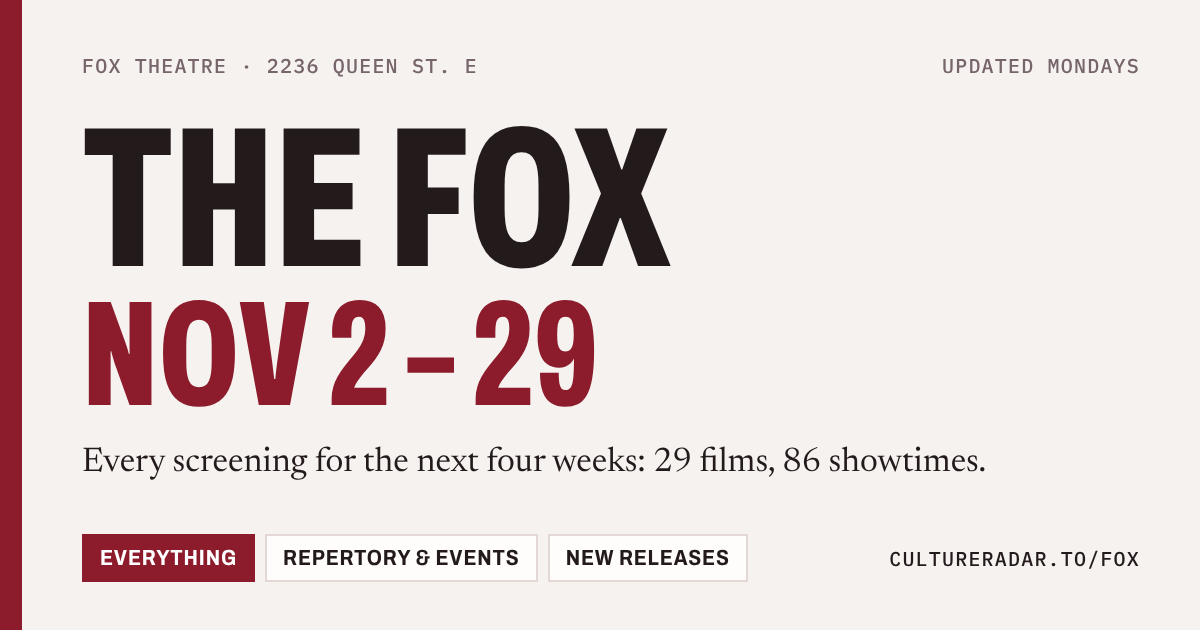
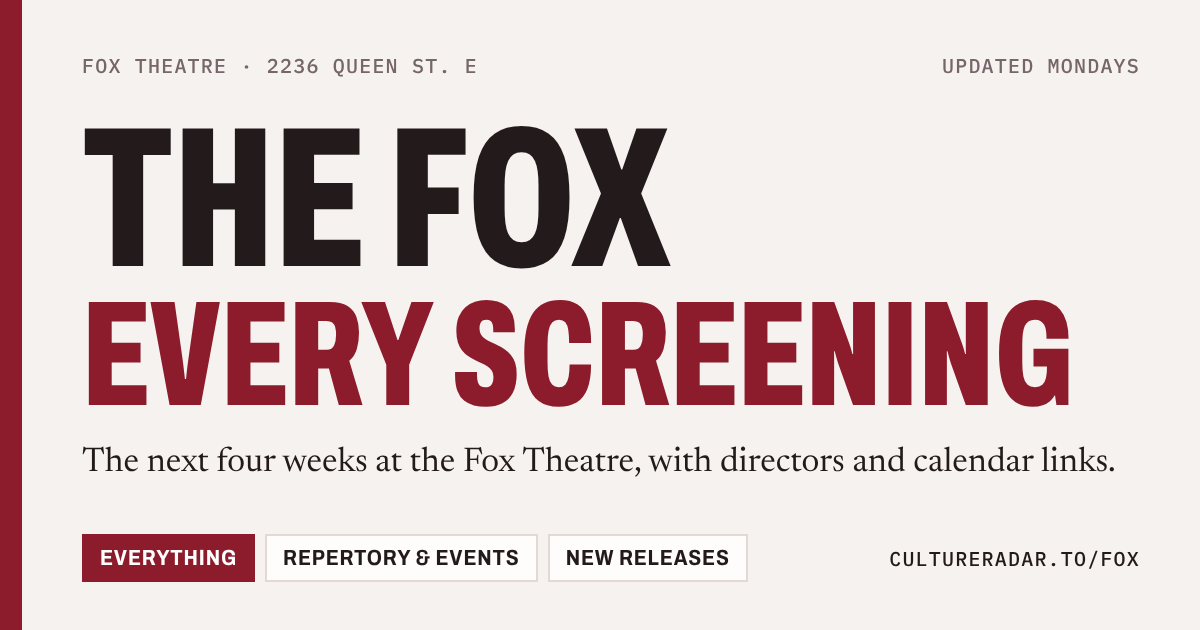
Make both link-preview images evergreen (no month, dates, or counts)
Claude-Session: https://claude.ai/code/session_01BpZ8BKHx2PbVjnSBC2KRY1

Changed region(s): [[0.0925, 0.4524, 0.8942, 0.6635], [0.0617, 0.6937, 0.925, 0.754]]

diff --git a/tools/social/make_kit.py b/tools/social/make_kit.py
@@ -6,7 +6,7 @@ Reads the picks and listings from index.html (the Radar) and writes:
   OUTDIR/feed-00-cover.png … feed-NN-*.png   (1080×1350 carousel: cover, one slide per pick, closing slide)
   OUTDIR/story-this-week.png                  (1080×1920, events in the 7 days from --week-start)
   OUTDIR/caption.txt                          (carousel caption)
-  --og PATH                                   (1200×630 link-preview image; the site uses assets/social/og.png)
+  --og PATH                                   (1200×630 evergreen link-preview image; the site uses assets/social/og.png)
 Needs Playwright with a Chromium/Chrome binary.
 """
 import os, re, sys, json, html, asyncio, datetime as dt
@@ -142,17 +142,17 @@ def story(rows, start):
 <div class='mono' style='margin-top:22px;background:{BLACK};color:{INK["art"]};padding:16px 20px;display:flex;justify-content:space-between'><span>Tickets</span><span>{SITE}</span></div></div>""",
         dots="dots fade"), len(wk)
 
-def og_card(month, n):
-    """1200×630 link-preview image (Open Graph), same look as the cover."""
+def og_card(month=None, n=None):
+    """1200×630 link-preview image (Open Graph), same look as the cover. Evergreen: no month or count."""
     chips = "".join(f"<span class=mono style='background:{INK[k]};padding:8px 14px;border:3px solid {BLACK};font-size:20px'>{CAT[k]}</span>" for k in CAT)
     return shell(1200, 630, f"""<div class=frame style='inset:44px 52px'>
-<div class='strip mono' style='font-size:20px'><span>Toronto · Free</span><span>{html.escape(month)}</span></div>
+<div class='strip mono' style='font-size:20px'><span>Toronto · Free</span><span>New edition on the 1st</span></div>
 <div style='display:flex;align-items:flex-end;gap:26px;margin-top:30px'>
 <div><div class='mast mis' style='font-size:190px;--c:{INK["film"]}'>Culture</div>
 <div class='mast mis' style='font-size:190px;color:{PAPER};-webkit-text-stroke:5px {BLACK};--c:{BLACK}'>Radar</div></div>
 <div class=mast style='font-size:110px;margin-bottom:6px'><span style='display:inline-block;background:{INK["film"]};border:5px solid {BLACK};padding:10px 18px 0;transform:rotate(-2deg);box-shadow:8px 8px 0 {BLACK}'>T.O.</span></div></div>
 <div class=foot style='display:flex;gap:12px;align-items:center'>{chips}<span class=mono style='margin-left:auto;font-size:22px'>{SITE}</span></div></div>
-<div class='burst mast' style='width:230px;height:230px;right:40px;top:110px;transform:rotate(12deg);--c2:{INK["music"]};font-size:54px;line-height:.85'>{n}<br>picks</div>""",
+<div class='burst mast' style='width:240px;height:240px;right:40px;top:105px;transform:rotate(12deg);--c2:{INK["music"]};font-size:46px;line-height:.88'>Monthly<br>picks</div>""",
         bg=INK["art"])
 
 async def render(jobs):

diff --git a/tools/social/make_fox_og.py b/tools/social/make_fox_og.py
@@ -1,9 +1,8 @@
-"""Render the Fox page's 1200×630 link-preview image (Open Graph).
+"""Render the Fox page's 1200×630 link-preview image (Open Graph). Evergreen: no dates or counts.
 
     python3 tools/social/make_fox_og.py            # writes assets/social/og-fox.png
 
-Reads the date range from the <h1> span and counts films and screenings in the S schedule
-of fox/index.html, so run it after every weekly refresh. Uses the Fox page's own palette.
+Uses the Fox page's own palette. Only needs re-running if the design changes.
 """
 import os, re, html, asyncio
 
@@ -35,8 +34,8 @@ body{{width:1200px;height:630px;background:{BG};color:{INK};font-family:Newsread
 <div style='position:absolute;inset:52px 60px 48px 82px;display:flex;flex-direction:column'>
   <div class=mono style='color:{MUTED};display:flex;justify-content:space-between'><span>Fox Theatre · 2236 Queen St. E</span><span>Updated Mondays</span></div>
   <div class=disp style='font-size:200px;margin-top:34px'>The Fox</div>
-  <div class=disp style='font-size:150px;color:{ACCENT};margin-top:6px'>{html.escape(rng)}</div>
-  <div style='font-size:34px;margin-top:26px;color:{INK}'>Every screening for the next four weeks: {films} films, {shows} showtimes.</div>
+  <div class=disp style='font-size:150px;color:{ACCENT};margin-top:6px'>Every screening</div>
+  <div style='font-size:34px;margin-top:26px;color:{INK}'>The next four weeks at the Fox Theatre, with directors and calendar links.</div>
   <div style='margin-top:auto;display:flex;gap:10px;align-items:center'>
     <span class='chip on'>Everything</span><span class=chip>Repertory &amp; events</span><span class=chip>New releases</span>
     <span class=mono style='margin-left:auto;color:{INK}'>cultureradar.to/fox</span>
@@ -55,7 +54,7 @@ async def render(path, d):
         await pg.screenshot(path=path); os.remove(tmp); await b.close()
 
 if __name__ == "__main__":
-    rng, films, shows = data()
+    rng, films, shows = data()  # kept for reference; the card itself is evergreen
     os.makedirs(os.path.dirname(OUT), exist_ok=True)
     asyncio.run(render(OUT, doc(rng, films, shows)))
-    print(f"Fox preview: {rng}, {films} films, {shows} showtimes -> {OUT}")
+    print(f"Fox preview (evergreen) -> {OUT}")

diff --git a/README.md b/README.md
@@ -13,7 +13,7 @@ A small static site, published with GitHub Pages at https://cultureradar.to/
 - `fox/archive/` — one folder per weekly Fox snapshot (`YYYY-MM-DD/`, with its iCal files) plus an index. Generated; never edit by hand.
 - `tools/archive_fox.py` — run after every weekly refresh of `fox/index.html` (`python3 tools/archive_fox.py`).
 - `tools/social/make_kit.py` — renders the Instagram kit (carousel, weekly story, caption) from the Radar, plus the link-preview image every page uses (`assets/social/og.png`): `python3 tools/social/make_kit.py OUTDIR --week-start YYYY-MM-DD --og assets/social/og.png`
-- `tools/social/make_fox_og.py` — renders the Fox page’s link-preview image (`assets/social/og-fox.png`) from the current date range and schedule; run after every weekly refresh.
+- `tools/social/make_fox_og.py` — renders the Fox page’s evergreen link-preview image (`assets/social/og-fox.png`); only needs re-running if the design changes.
 - `tools/make_ics.py` — rebuilds the iCal files: `python3 tools/make_ics.py fox/index.html fox/ics fox/fox.ics YEAR MONTH`
 
 Both pages are refreshed by scheduled Claude tasks: the Fox page every Monday, the Radar on the 1st of each month.
